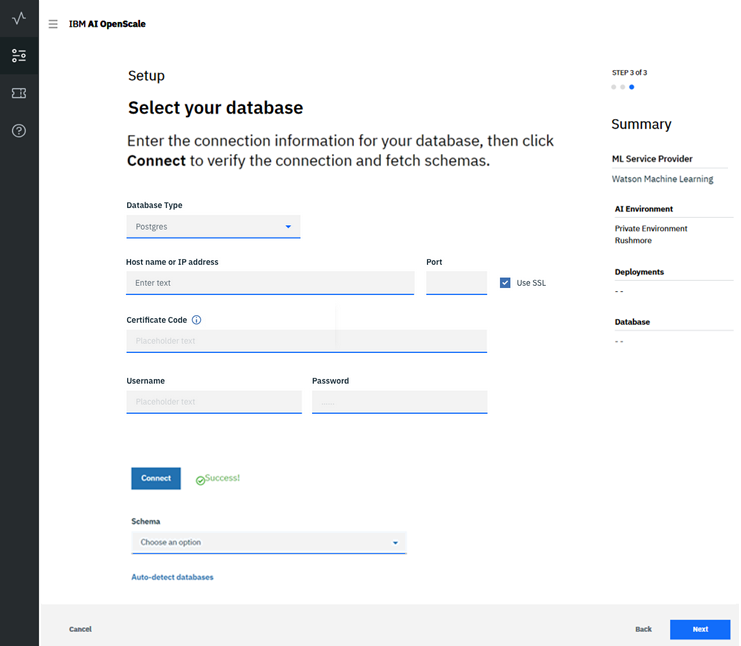
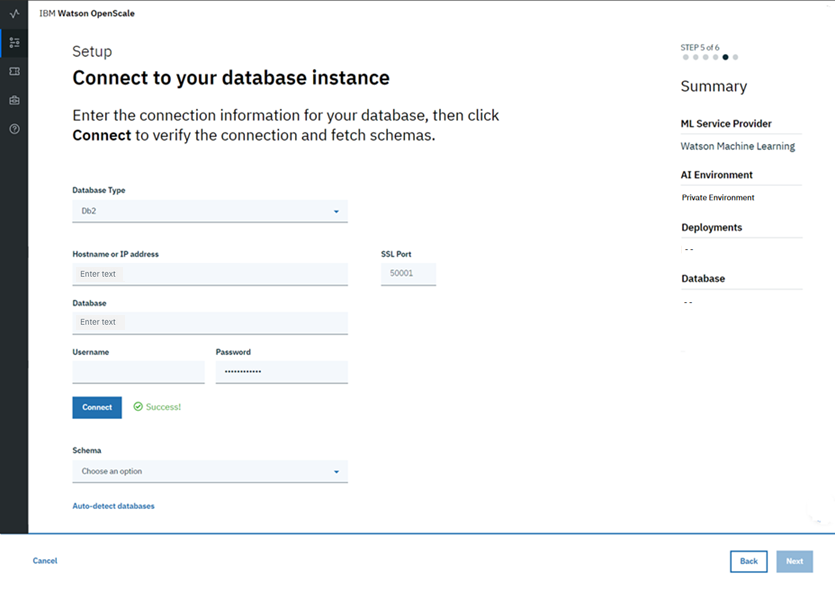
Databases for Postgres, link fixes

diff --git a/index.md b/index.md
@@ -1,8 +1,8 @@
 ---
 
 copyright:
-  years: 2018
-lastupdated: "2018-12-14"
+  years: 2018, 2019
+lastupdated: "2019-02-05"
 
 ---
 
@@ -20,34 +20,40 @@ lastupdated: "2018-12-14"
 {:swift: .ph data-hd-programlang='swift'}
 
 # About
+{: #abt-about}
 
 {{site.data.keyword.aios_full}} is an enterprise-grade environment for AI-infused applications, providing enterprises visibility into how AI is being built, used, and delivering return on investment, at the scale of your business.
 {: shortdesc}
 
 ## Implementation
+{: #abt-implement}
 
 Here's how you will implement {{site.data.keyword.aios_short}}:
 
-- **Configure {{site.data.keyword.aios_short}}**: With the easy-to-use graphical environment, [set up a payload logging database](connect-db.html), and the [Watson Machine Learning instance](connect-wml.html) where your AI models and deployments are stored.
+- **Configure {{site.data.keyword.aios_short}}**: With the easy-to-use graphical environment, [set up a payload logging database](/docs/services/ai-openscale-icp/connect-db.html), and the [Watson Machine Learning instance](/docs/services/ai-openscale-icp/connect-wml.html) where your AI models and deployments are stored.
 
 - **Work with monitors**: For each deployment, configure how {{site.data.keyword.aios_short}} will monitor that deployment. You can monitor for:
 
-    - [Fairness](monitor-fairness.html)
-    - [Accuracy](monitor-accuracy.html)
+    - [Fairness](/docs/services/ai-openscale-icp/monitor-fairness.html)
+    - [Accuracy](/docs/services/ai-openscale-icp/monitor-accuracy.html)
 
 - **View and edit monitored data**: The {{site.data.keyword.aios_short}} [dashboard](insight-overview.html) lets you easily view key insights and identify issues for your deployments. Visualization of individual data points for each monitored feature provides additional detail.
 
 ## Limitations
+{: #abt-limits}
 
-- The current release only supports one database, one Watson Machine Learning instance, and one instance of {{site.data.keyword.aios_short}}
+- The current release only supports one database, one Watson Machine Learning instance, and one instance of {{site.data.keyword.aios_short}}.
 
 - The database and Watson Machine Learning instance must be deployed in the same {{site.data.keyword.Bluemix_notm}} account.
 
 - There is a license limit of 20 deployed models per instance of {{site.data.keyword.aios_short}}.
 
+- Bias and debias Python functions are not supported in the current release; bias and debias work correctly for other models.
+
 - Currently, explanations cannot be generated for images which are greater than 1 MB in size.
 
 ## Supported model types
+{: #abt-models}
 
 Table 1. Model support details
 
@@ -62,6 +68,7 @@ Table 1. Model support details
 <sup>1</sup> If your model / framework outputs prediction probabilities
 
 ## Supported frameworks
+{: #abt-frame}
 
 Table 1. Framework support details
 
@@ -74,20 +81,24 @@ Table 1. Framework support details
 {: caption="Framework support details" caption-side="top"}
 
 ## Browser support
+{: #abt-browser}
 
 The {{site.data.keyword.aios_short}} service tooling requires the same level of browser software as is required by {{site.data.keyword.Bluemix_notm}}. See the {{site.data.keyword.Bluemix_notm}} [Prerequisites ![External link icon](../../icons/launch-glyph.svg "External link icon")](https://console.bluemix.net/docs/overview/prereqs.html#browsers){: new_window} topic for details.
 
 ## ModelOps CLI tool
+{: #abt-mopscli}
 
 The [{{site.data.keyword.aios_short}} CLI model operations tool ![External link icon](../../icons/launch-glyph.svg "External link icon")](https://github.com/IBM-Watson/aiopenscale-modelops-cli) allows you to execute tasks related to the lifecycle management of machine learning models. This tool is complementary to the {{site.data.keyword.Bluemix_notm}} CLI tool, augmented with the [machine learning plugin](https://www.ibm.com/support/knowledgecenter/DSXDOC/analyze-data/ml_dlaas_environment.html).
 
 ## Python client
+{: #abt-python}
 
-The [{{site.data.keyword.aios_short}} Python client ![External link icon](../../icons/launch-glyph.svg "External link icon")](http://ai-openscale-python-client.mybluemix.net/) is a Python library that allows you to work directly with the {{site.data.keyword.aios_short}} service on {{site.data.keyword.Bluemix_notm}}. You can use the Python client, instead of the {{site.data.keyword.aios_short}} client UI, to directly configure a logging database, bind your machine learning engine, and select and monitor deployments. For an example using the Python client in this way, see both the [CARS4U action recommendation - model ![External link icon](../../icons/launch-glyph.svg "External link icon")](https://github.com/pmservice/ai-openscale-tutorials/blob/master/notebooks/CARS4U%20action%20recommendation%20-%20model.ipynb) and the [Data Mart configuration and usage with ibm-ai-openscale python package ![External link icon](../../icons/launch-glyph.svg "External link icon")](https://github.com/pmservice/ai-openscale-tutorials/blob/master/notebooks/Data%20Mart%20configuration%20and%20usage%20-%20CARS4U.ipynb) notebooks.
+The [{{site.data.keyword.aios_short}} Python client ![External link icon](../../icons/launch-glyph.svg "External link icon")](http://ai-openscale-python-client.mybluemix.net/) is a Python library that allows you to work directly with the {{site.data.keyword.aios_short}} service on {{site.data.keyword.Bluemix_notm}}. You can use the Python client, instead of the {{site.data.keyword.aios_short}} client UI, to directly configure a logging database, bind your machine learning engine, and select and monitor deployments. For an example using the Python client in this way, see both the [CARS4U action recommendation - model ![External link icon](../../icons/launch-glyph.svg "External link icon")](https://github.com/pmservice/ai-openscale-tutorials/blob/master/notebooks/CARS4U%20action%20recommendation%20-%20model.ipynb) and the [Working with Watson Machine Learning Engine ![External link icon](../../icons/launch-glyph.svg "External link icon")](https://github.com/pmservice/ai-openscale-tutorials/blob/master/notebooks/AI%20OpenScale%20and%20Watson%20ML%20Engine.ipynb) notebooks.
 
 ## Next steps
+{: #abt-next}
 
-- [Get started](getting-started.html) with the service.
+- [Get started](/docs/services/ai-openscale-icp/getting-started.html) with the service.
 - View the [API Reference material ![External link icon](../../icons/launch-glyph.svg "External link icon")](https://console.bluemix.net/apidocs/ai-openscale){: new_window}.
 
 Still have questions? [Contact IBM ![External link icon](../../icons/launch-glyph.svg "External link icon")](https://www.ibm.com/account/reg/us-en/signup?formid=MAIL-watson){: new_window}.

diff --git a/connect-db.md b/connect-db.md
@@ -2,7 +2,7 @@
 
 copyright:
   years: 2018, 2019
-lastupdated: "2018-01-24"
+lastupdated: "2019-02-04"
 
 ---
 
@@ -16,13 +16,13 @@ lastupdated: "2018-01-24"
 {:screen: .screen}
 
 # Specify your database
-{: #connect-db}
+{: #cdb-connect}
 
 Specify a database for your {{site.data.keyword.aios_short}} instance to use.
 {: shortdesc}
 
 ## Connecting to your database
-{: #connect-config-db}
+{: #cdb-config}
 
 {{site.data.keyword.aios_short}} uses a database to store payload, feedback, and measurement data. Besides selecting a database, you may also select a schema for your database - a schema is a named collection of tables in the database.
 
@@ -32,11 +32,11 @@ Specify a database for your {{site.data.keyword.aios_short}} instance to use.
 
 ### Free Lite plan database
 
-**NOTE**: The free Lite plan database has some important limitations:
+The free Lite plan database has some important limitations:
 
 - The free Lite plan database is hosted, and is not directly accessible to you.
 - {{site.data.keyword.aios_full}} will have full access to your database, and thus will have full access to your data.
-- The free Lite plan database is not GDPR-compliant. If your model processes personally-identifiable information (PII), you cannot use the free Lite plan database. You must purchase a new database, or use an existing database that conforms to GDPR rules. See [Information security](information-security.html) to learn more.
+- The free Lite plan database is not GDPR-compliant. If your model processes personally-identifiable information (PII), you cannot use the free Lite plan database. You must purchase a new database, or use an existing database that conforms to GDPR rules. See [Information security](/docs/services/ai-openscale-icp/information-security.html) to learn more.
 
 To proceed with using the free Lite plan database, simply select that option, then review the summary data and click **Save**.
 
@@ -46,31 +46,53 @@ To proceed with using the free Lite plan database, simply select that option, th
 
 1.  Once you have selected the "Use existing or purchase new database" option, {{site.data.keyword.aios_short}} checks your {{site.data.keyword.Bluemix_notm}} account to locate any existing databases.
 
-    For the current release, only a PostgreSQL or Db2 database is supported.
-    {: note}
-
-1.  Select your existing database type (PostgreSQL or Db2), then a database from the **Database** drop-down menu, and then a **Schema**:
+1.  Select your existing database type (Compose for Postgres, Database for Postgres, or Db2), then a database from the **Database** drop-down menu, and then a **Schema**:
 
     ![Select database](images/gs-config-database3.png)
 
 1.  You can also click **Select a different location** to specify a database location outside of your {{site.data.keyword.Bluemix_notm}} account.
 
-    - Select the **Database Type**, then fill in the connection information for your database location and click **Connect**:
+    - Select the **Database Type** (`Compose for PostgreSQL`, `Database for PostgreSQL`, or `Db2`), then provide connection information:
 
-       If you are using a Db2 database with a self-signed certificate, select the optional "Use SSL" checkbox and enter the content of the certificate in the "Certificate Code" field to properly configure the SSL connection.
-       {: note}
+        - For a `Compose for PostgreSQL` database, complete the following:
 
-      ![Select database SSL off](images/gs-config-database4.png)
+            - Hostname or IP address
+            - Port
+            - Database (name)
+            - Username
+            - Password
 
-      ![Select database SSL on](images/gs-config-database4a.png)
+            ![Specify Compose for Postgres db location](images/db-config-cpostgres.png)
+
+        - For a `Database for PostgreSQL` database, complete the following:
+
+            - Host name or IP address
+            - SSL Port
+            - Base-64 encoded certificate
+            - Database (name)
+            - Username
+            - Password
+
+            ![Specify Database for Postgres db location](images/db-config-dpostgres.png)
+
+        - For a `Db2` database, complete the following:
+
+            - Hostname or IP address
+            - SSL Port
+            - Database (name)
+            - Username
+            - Password
+
+            ![Specify Db2 location](images/db-config-db2.png)
 
     - Once you have successfully connected, you can select a schema.
 
       ![Select schema](images/gs-config-database5.png)
 
-Click **Next** to review the summary data and click **Save**.
+Click **Next** to review the summary data, then click **Save**.
 
 ## Sending a scoring request
+{: #cdb-scoring}
 
 To configure monitors, {{site.data.keyword.aios_short}} requires you to send a scoring request, in order to begin to log the data that will be monitored.
 
@@ -87,6 +109,6 @@ The fields and values in the code snippets need to be substituted with your real
 Once you have run your payload logging, you will see a checkmark in the "Ready to Monitor" column for the selected deployment. Click **Configure Monitors** to continue.
 
 ## Next steps
-{: #connect-next}
+{: #cdb-next}
 
-{{site.data.keyword.aios_short}} is now ready for you to [configure monitors for your deployments](monitor-overview.html).
+{{site.data.keyword.aios_short}} is now ready for you to [configure monitors for your deployments](/docs/services/ai-openscale-icp/monitor-overview.html).
